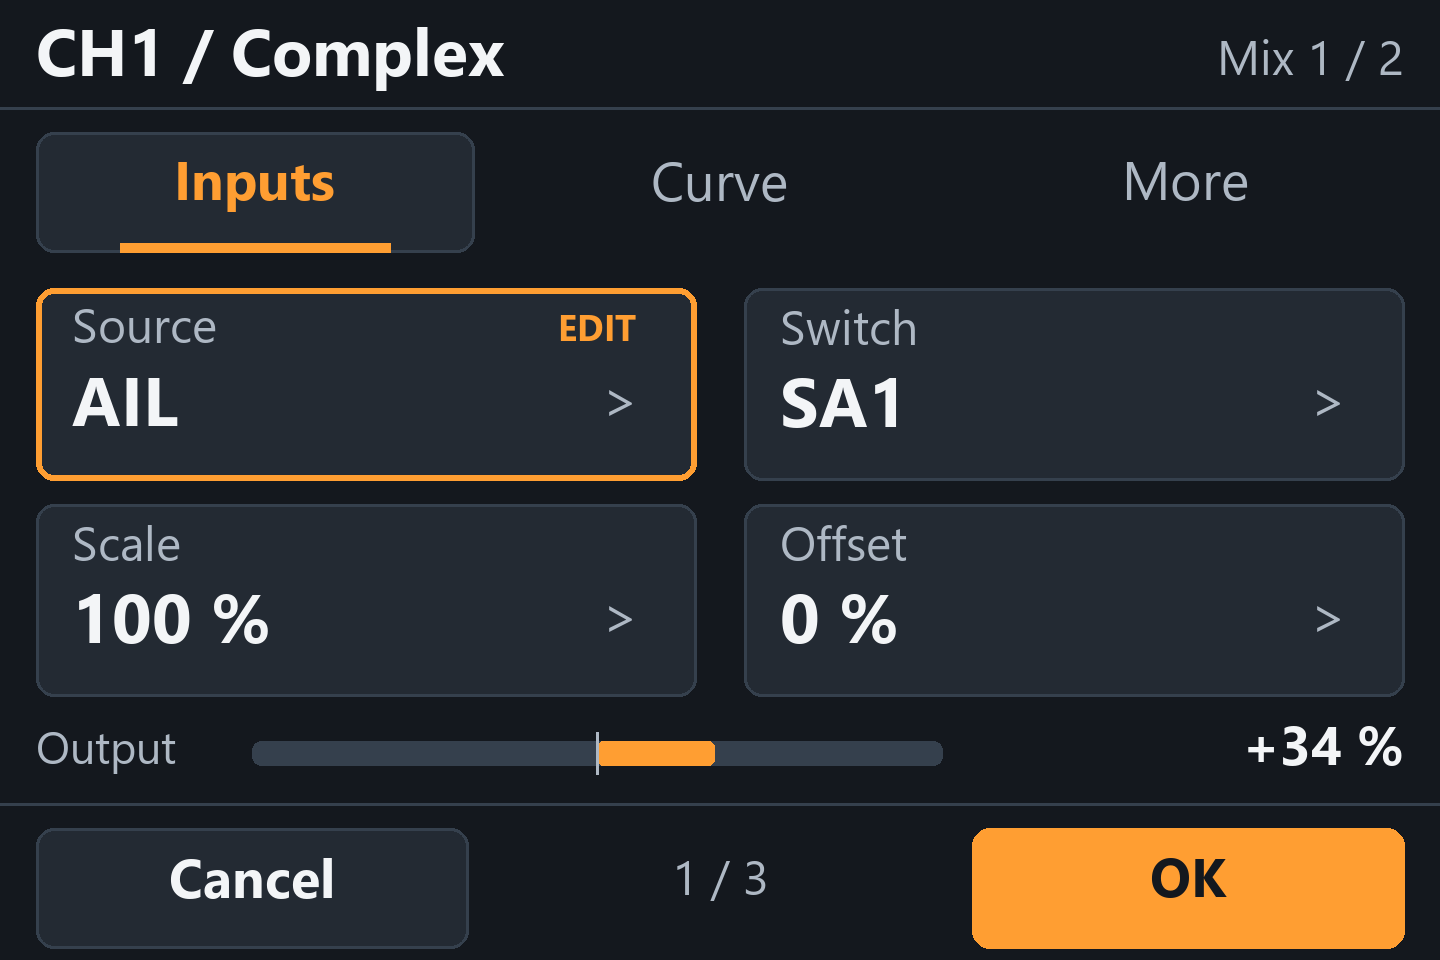
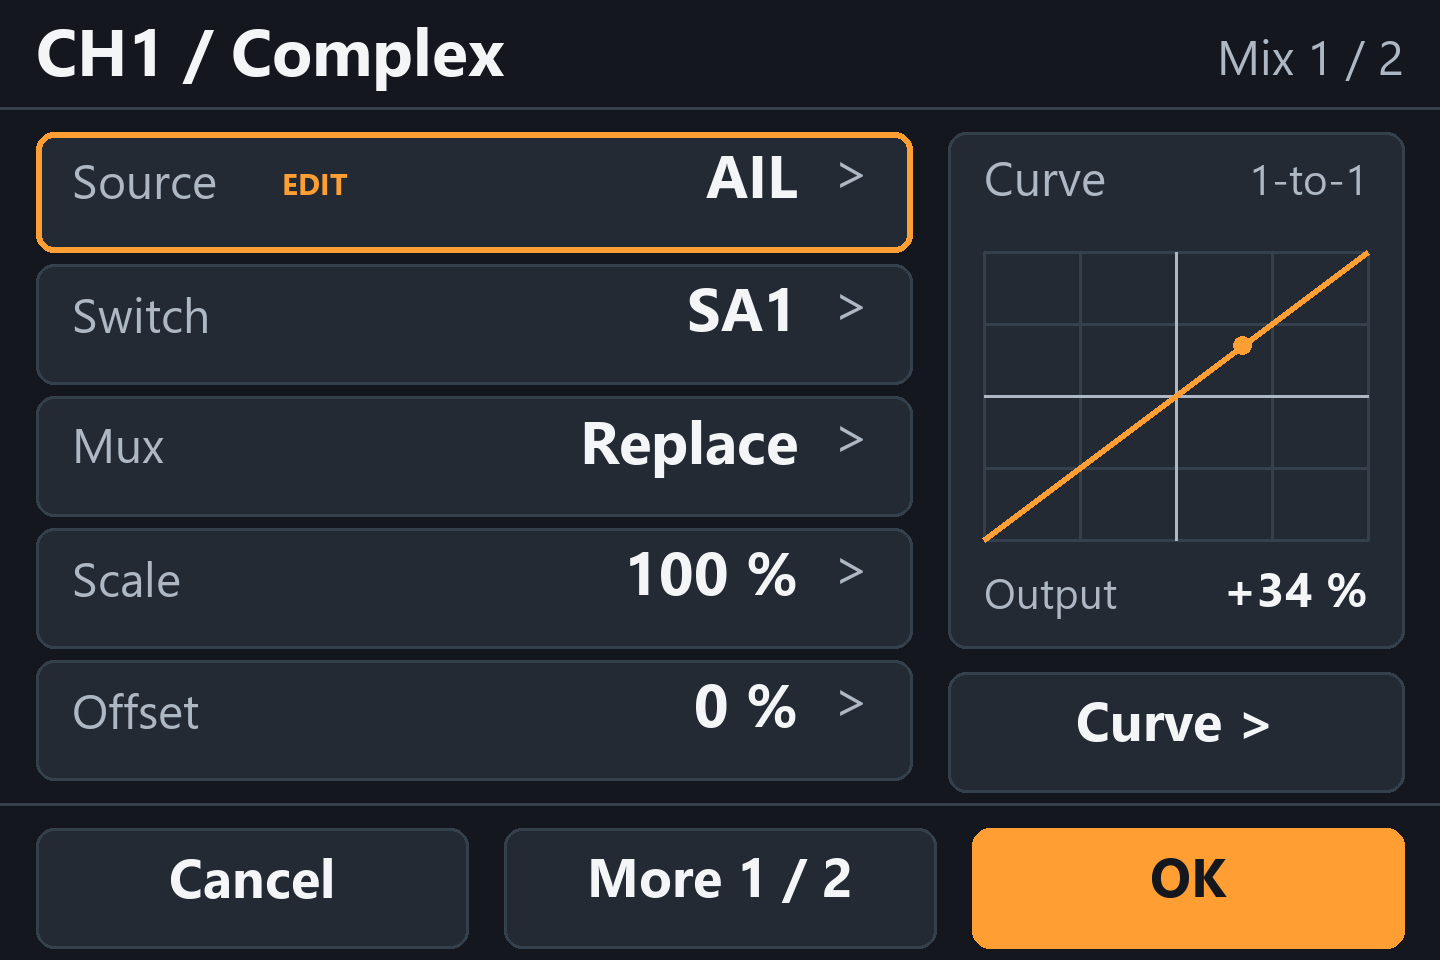
fix(tx15): decode each wheel detent and preserve faster navigation

diff --git a/utils/hardware/tests/test_app_adapter.py b/utils/hardware/tests/test_app_adapter.py
@@ -26,19 +26,31 @@ volatile u8 priority_ready;
 static unsigned sample_calls;
 int tx15_analog_sample(void) { sample_calls++; return 0; }
 #include "hardware/tx15/board/inputs.h"
-static unsigned up_releases, down_releases;
+static unsigned up_releases, down_releases, wheel_longpress;
+static unsigned enter_presses,enter_releases,enter_longpress,exit_presses,exit_releases,exit_longpress;
 void AUTODIMMER_Check(void) {}
 static unsigned count_action(u32 button,unsigned flags,void *data) {
  (void)data;
+ if(flags & BUTTON_PRESS) {
+  if(button==CHAN_ButtonMask(BUT_ENTER))enter_presses++;
+  if(button==CHAN_ButtonMask(BUT_EXIT))exit_presses++;
+ }
+ if(flags & BUTTON_LONGPRESS) {
+  if(button==CHAN_ButtonMask(BUT_UP) || button==CHAN_ButtonMask(BUT_DOWN))wheel_longpress++;
+  if(button==CHAN_ButtonMask(BUT_ENTER))enter_longpress++;
+  if(button==CHAN_ButtonMask(BUT_EXIT))exit_longpress++;
+ }
  if(flags & BUTTON_RELEASE) {
   if(button==CHAN_ButtonMask(BUT_UP)) up_releases++;
   if(button==CHAN_ButtonMask(BUT_DOWN)) down_releases++;
+  if(button==CHAN_ButtonMask(BUT_ENTER))enter_releases++;
+  if(button==CHAN_ButtonMask(BUT_EXIT))exit_releases++;
  }
  return 1;
 }
-static u32 test_ms; static int rotation;
+static u32 test_ms; static int rotation;static unsigned physical_keys;
 u32 CLOCK_getms(void) { return test_ms; }
-unsigned tx15_inputs_state(void) { return 0; }
+unsigned tx15_inputs_state(void) { return physical_keys; }
 struct tx15_input_event tx15_inputs_take(void) { struct tx15_input_event e={0,rotation}; rotation=0; return e; }
 u32 ScanButtons(void) { SCANBODY
 
@@ -76,8 +88,9 @@ int main(void) {
  test_ms=200; rotation=-1; assert(ScanButtons()==CHAN_ButtonMask(BUT_UP));
  test_ms=300; assert(ScanButtons()==0);
  buttonAction_t action={0};
- BUTTON_RegisterCallback(&action,CHAN_ButtonMask(BUT_UP)|CHAN_ButtonMask(BUT_DOWN),
-   BUTTON_PRESS|BUTTON_RELEASE,count_action,0);
+ BUTTON_RegisterCallback(&action,CHAN_ButtonMask(BUT_UP)|CHAN_ButtonMask(BUT_DOWN)
+   |CHAN_ButtonMask(BUT_ENTER)|CHAN_ButtonMask(BUT_EXIT),
+   BUTTON_PRESS|BUTTON_RELEASE|BUTTON_LONGPRESS,count_action,0);
  /* Feed ten detent events each way through the real Deviation debounce and
   * callback dispatcher. GUI navigation consumes the release, not the press. */
  for(test_ms=500;test_ms<6500;test_ms+=5) {
@@ -86,6 +99,26 @@ int main(void) {
   BUTTON_Handler();
  }
  assert(up_releases==10 && down_releases==10);
+ /* Fast 12.5-detent/s turns must deliver every release to real callbacks. */
+ for(test_ms=6500;test_ms<11500;test_ms+=5) {
+  if(test_ms>=6500 && test_ms<8500 && (test_ms-6500)%80==0) rotation=-1;
+  if(test_ms>=9000 && test_ms<11000 && (test_ms-9000)%80==0) rotation=1;
+  BUTTON_Handler();
+ }
+ assert(up_releases==35 && down_releases==35);
+ /* A GUI stall can coalesce detents: the adapter must preserve a burst. */
+ rotation=-12;
+ for(;test_ms<13000;test_ms+=5)BUTTON_Handler();
+ assert(up_releases==47 && down_releases==35);
+ assert(!wheel_longpress);
+ /* Already-debounced physical key state must retain short/long semantics. */
+ for(;test_ms<13800;test_ms+=5) {
+  physical_keys=test_ms<13600?TX15_ENTER:
+    test_ms>=13650 && test_ms<13750?TX15_EXIT:0;
+  BUTTON_Handler();
+ }
+ assert(enter_presses==1 && enter_releases==1 && enter_longpress==1);
+ assert(exit_presses==1 && exit_releases==1 && !exit_longpress);
  LCD_DrawStart(4,5,5,6,DRAW_NWSE);
  for(int i=0;i<5;i++) LCD_DrawPixel(1);
  assert(n==4 && px[0]==4 && py[0]==5 && px[3]==5 && py[3]==6);

diff --git a/docs/tx15/ui-concepts/render_ethos_style.py b/docs/tx15/ui-concepts/render_ethos_style.py
@@ -121,29 +121,30 @@ def mix_editor():
     s.text(12,9,'CH1 / Complex',22,bold=True)
     s.text(468,13,'Mix 1 / 2',16,MUTED,align='right')
     s.line([(0,36),(480,36)],EDGE,1)
-    for i,label in enumerate(('Inputs','Curve','More')):
-        x=12+i*155
-        s.rect(x,44,146,40,CARD if i==0 else BG,EDGE if i==0 else None,6)
-        s.text(x+73,54,label,18,ACCENT if i==0 else MUTED,bold=i==0,align='center')
-        if i==0:s.rect(x+28,81,90,3,ACCENT,radius=0)
-        s.hit(label,x,44,146,40)
-    fields=[('Source','AIL'),('Switch','SA1'),('Scale','100 %'),('Offset','0 %')]
+    fields=[('Source','AIL'),('Switch','SA1'),('Mux','Replace'),('Scale','100 %'),('Offset','0 %')]
     for i,(label,value) in enumerate(fields):
-        x,y=12+(i%2)*236,96+(i//2)*72
-        s.rect(x,y,220,64,CARD,ACCENT if i==0 else EDGE,6,2 if i==0 else 1)
-        s.text(x+12,y+7,label,16,MUTED)
-        s.text(x+12,y+30,value,23,bold=True)
-        s.text(x+201,y+34,'>',18,MUTED,align='right')
-        if i==0:s.text(x+200,y+9,'EDIT',12,ACCENT,bold=True,align='right')
-        s.hit(label,x,y,220,64)
-    s.text(12,244,'Output',15,MUTED)
-    s.rect(84,247,230,8,EDGE,radius=3)
-    s.rect(199,247,39,8,ACCENT,radius=2)
-    s.line([(199,244),(199,258)],MUTED,1)
-    s.text(468,242,'+34 %',18,FG,bold=True,align='right')
+        x,y=12,44+i*44
+        s.rect(x,y,292,40,CARD,ACCENT if i==0 else EDGE,6,2 if i==0 else 1)
+        s.text(x+12,y+11,label,16,MUTED)
+        s.text(x+254,y+8,value,20,bold=True,align='right')
+        s.text(x+278,y+10,'>',18,MUTED,align='right')
+        if i==0:s.text(x+82,y+14,'EDIT',10,ACCENT,bold=True)
+        s.hit(label,x,y,292,40)
+    s.rect(316,44,152,172,CARD,EDGE)
+    s.text(328,54,'Curve',16,MUTED)
+    s.text(456,55,'1-to-1',14,MUTED,align='right')
+    for x in (328,360,392,424,456):s.line([(x,84),(x,180)],EDGE,1)
+    for y in (84,108,132,156,180):s.line([(328,y),(456,y)],EDGE,1)
+    s.line([(392,84),(392,180)],MUTED,1)
+    s.line([(328,132),(456,132)],MUTED,1)
+    s.line([(328,180),(456,84)],ACCENT,2)
+    s.rect(411,112,6,6,ACCENT,radius=3)
+    s.text(328,193,'Output',14,MUTED)
+    s.text(456,191,'+34 %',16,FG,bold=True,align='right')
+    s.button(316,224,152,'Curve >')
     s.line([(0,268),(480,268)],EDGE,1)
     s.button(12,276,144,'Cancel')
-    s.text(240,287,'1 / 3',16,MUTED,align='center')
+    s.button(168,276,144,'More 1 / 2')
     s.button(324,276,144,'OK',True)
     s.save('ethos-mix-editor')
     return s

diff --git a/utils/hardware/tests/test_encoder_detents.py b/utils/hardware/tests/test_encoder_detents.py
@@ -1,0 +1,39 @@
+"""TX15 two-edge detents, including bounce and reversal; no board access."""
+import unittest
+import test_controls as controls
+
+class EncoderDetentTests(unittest.TestCase):
+    compile_run = controls.ControlsTests.compile_run
+
+    def test_one_detent_two_edges_and_noise(self):
+        self.compile_run(r'''
+#include <assert.h>
+#include "hardware/tx15/board/inputs.h"
+static int next(struct tx15_input_filter *f,unsigned phase){
+ return tx15_input_filter_step(f,0,phase).rotation;
+}
+int main(void){
+ struct tx15_input_filter f;
+ tx15_input_filter_init(&f,0,3);
+ /* Stable detents alternate 3 and 0; two Gray edges per physical click. */
+ assert(!next(&f,1));assert(next(&f,0)==1);
+ assert(!next(&f,2));assert(next(&f,3)==1);
+ assert(!next(&f,2));assert(next(&f,0)==-1);
+ assert(!next(&f,1));assert(next(&f,3)==-1);
+ /* Returning contact bounce cannot move an item. */
+ for(unsigned n=0;n<20;n++){assert(!next(&f,1));assert(!next(&f,3));}
+ assert(!next(&f,1));assert(next(&f,0)==1);
+ for(unsigned n=0;n<20;n++){assert(!next(&f,1));assert(!next(&f,0));}
+ /* Partial reversal cancels, then a real reverse detent emits once. */
+ assert(!next(&f,2));assert(!next(&f,0));
+ assert(!next(&f,1));assert(next(&f,3)==-1);
+ /* Skipped states must clear any partial movement, never guess direction. */
+ assert(!next(&f,1));assert(!next(&f,2));assert(!next(&f,3));
+ assert(!next(&f,0));assert(!next(&f,1));assert(!next(&f,0));
+ /* Holding ENTER blocks rotation without creating release-time backlog. */
+ tx15_input_filter_init(&f,TX15_ENTER,3);
+ unsigned phase[]={1,0,2,3};
+ for(unsigned i=0;i<40;i++)assert(!tx15_input_filter_step(&f,TX15_ENTER,phase[i%4]).rotation);
+ assert(!next(&f,1));assert(next(&f,0)==1);
+ return 0;
+}''', ['hardware/tx15/board/input_filter.c'])

diff --git a/src/target/tx/radiomaster/tx15/platform.c b/src/target/tx/radiomaster/tx15/platform.c
@@ -20,20 +20,25 @@ void CLOCK_ResetWatchdog(void) {
     if(tx15_runtime_poll(CLOCK_getms())) REPORT[12]++;
 }
 u32 ScanButtons(void) {
+    /* Native GPIO keys are already debounced. Keep synthetic press/release
+     * long enough for BUTTON_DEBOUNCE_MS, without the old 5-items/s limit. */
+    enum {WHEEL_PULSE_MS=20,WHEEL_QUEUE_MAX=32};
     static int queued;
     static u32 until, pulse;
     static unsigned phase;
     struct tx15_input_event e=tx15_inputs_take();
-    queued+=e.rotation; if(queued>8) queued=8; if(queued<-8) queued=-8;
+    queued+=e.rotation;
+    if(queued>WHEEL_QUEUE_MAX)queued=WHEEL_QUEUE_MAX;
+    if(queued<-WHEEL_QUEUE_MAX)queued=-WHEEL_QUEUE_MAX;
     u32 now=CLOCK_getms();
     if(phase && (s32)(now-until)>=0) {
-        if(phase==1) { pulse=0; phase=2; until=now+100; }
+        if(phase==1) { pulse=0; phase=2; until=now+WHEEL_PULSE_MS; }
         else phase=0;
     }
     if(!phase && queued) {
         /* CHAN_ButtonMask does not parenthesize its argument internally. */
         pulse=queued>0 ? CHAN_ButtonMask(BUT_DOWN) : CHAN_ButtonMask(BUT_UP);
-        queued+=(queued>0)?-1:1; phase=1; until=now+100;
+        queued+=(queued>0)?-1:1; phase=1; until=now+WHEEL_PULSE_MS;
     }
     unsigned raw=tx15_inputs_state();
     u32 trims=0;

diff --git a/hardware/tx15/board/input_filter.c b/hardware/tx15/board/input_filter.c
@@ -14,16 +14,17 @@ struct tx15_input_event tx15_input_filter_step(struct tx15_input_filter *f,unsig
             f->stable^=mask; if(f->stable&mask) e.pressed|=mask;
         }
     }
-    /* Four Gray-code edges per step. Reject skipped states instead of guessing
-     * motion. TX15 wiring is inverted: 3 -> 1 -> 0 -> 2 -> 3 is positive. */
+    /* TX15 has two detents per complete Gray cycle: two edges per click.
+     * Reject skipped states instead of guessing motion. Positive sequence:
+     * 3 -> 1 -> 0 (one click) -> 2 -> 3 (next click). */
     phase&=3;
     unsigned old=f->phase, diff=old^phase;
     if(diff==3) f->partial=0;
     else if(diff) {
         unsigned next=(old==3)?1:(old==1)?0:(old==0)?2:3;
         f->partial+=(phase==next)?1:-1;
-        if(f->partial>=4) { e.rotation=1; f->partial=0; }
-        if(f->partial<=-4) { e.rotation=-1; f->partial=0; }
+        if(f->partial>=2) { e.rotation=1; f->partial=0; }
+        if(f->partial<=-2) { e.rotation=-1; f->partial=0; }
     }
     f->phase=phase;
     if(keys&TX15_ENTER) { f->partial=0; e.rotation=0; }

diff --git a/utils/hardware/tests/test_inputs.py b/utils/hardware/tests/test_inputs.py
@@ -19,10 +19,10 @@ int main(void) {
  for(int i=0;i<10;i++) { assert(!tx15_input_filter_step(&f,1,3).pressed); tx15_input_filter_step(&f,0,3); }
  const unsigned phase[]={1,0,2,3}; int sum=0;
  for(int i=0;i<4;i++) sum+=tx15_input_filter_step(&f,0,phase[i]).rotation;
- assert(sum==1);
+ assert(sum==2); /* two physical detents in a full electrical cycle */
  const unsigned reverse[]={2,0,1,3}; sum=0;
  for(int i=0;i<4;i++) sum+=tx15_input_filter_step(&f,0,reverse[i]).rotation;
- assert(sum==-1);
+ assert(sum==-2);
  assert(!tx15_input_filter_step(&f,0,0).rotation);
  assert(!tx15_input_filter_step(&f,0,3).rotation);
  /* A key already held at startup must be released before generating a press. */

diff --git a/src/buttons.c b/src/buttons.c
@@ -18,7 +18,9 @@
 
 static buttonAction_t *buttonHEAD = NULL;
 static buttonAction_t *buttonPressed = NULL;
-#define DEBOUNCE_WAIT_MS 80
+#ifndef BUTTON_DEBOUNCE_MS
+#define BUTTON_DEBOUNCE_MS 80
+#endif
 
 void exec_callbacks(u32, enum ButtonFlags);
 
@@ -108,7 +110,7 @@ void BUTTON_Handler()
     u32 buttons_released=(~buttons) &   last_buttons;
 
     if (buttons != last_buttons)
-        last_button_time = ms + DEBOUNCE_WAIT_MS;
+        last_button_time = ms + BUTTON_DEBOUNCE_MS;
 
     if(buttons_pressed && !longpress_release) {
         //printf("pressed: %08d\n", buttons_pressed);

diff --git a/src/target/tx/radiomaster/tx15/app.c b/src/target/tx/radiomaster/tx15/app.c
@@ -37,7 +37,7 @@ static void tx15_app_frame_service(void){(void)tx15_runtime_poll(CLOCK_getms());
 #include "../../../../../hardware/tx15/board/media_clock.h"
 #endif
 #ifdef TX15_MENU_TOUCH
-const char DeviationVersion[33]="New Deviation TX15 UI02";
+const char DeviationVersion[33]="New Deviation TX15 UI02-R1";
 #elif defined(TX15_TOUCH_DIAGNOSTIC)
 const char DeviationVersion[33]="New Deviation TX15 UI01";
 #elif defined(TX15_FRAME_SWAP)

diff --git a/src/target/tx/radiomaster/tx15/target_defs.h b/src/target/tx/radiomaster/tx15/target_defs.h
@@ -10,6 +10,8 @@
 #define SUPPORT_MULTI_LANGUAGE 0
 #define SUPPORT_XN297DUMP 0
 #define TX15_RAM_APPLICATION 1
+/* Physical native keys already pass the 20ms board input filter. */
+#define BUTTON_DEBOUNCE_MS 10
 
 #define TXID 0xF0  /* RAM application identity; not a DFU identifier. */
 #define LCD_WIDTH 480

diff --git a/docs/superpowers/plans/2026-10-28-tx15-wheel-and-mix-density.md b/docs/superpowers/plans/2026-10-28-tx15-wheel-and-mix-density.md
@@ -1,0 +1,38 @@
+# TX15 wheel detents and Mix density
+
+User: keep the proposed main menu; Mix needs more information; wheel should
+move one item per detent. Work in existing dev/tx15-hardware-bringup checkout.
+
+1. Reproduce slow detents in the pure decoder and fast turns through actual
+   ScanButtons/BUTTON_Handler. Check bounce, reverse, invalid Gray transitions,
+   physical ENTER/EXIT, and no long-press from synthetic wheel events.
+2. Use two valid Gray edges per TX15 detent, preserving direction and partial
+   cancellation. Native physical inputs already debounce 20ms. Reduce native
+   second debounce to 10ms and wheel pulses to 20ms on/20ms off; leave other
+   transmitter targets unchanged. Preserve up to 32 queued detents.
+3. Revise Mix design only: five 40px parameter rows plus compact curve preview,
+   visible switch/mux/source/scale/offset and explicit remaining fields. Keep
+   40px footer and all existing Deviation fields/save semantics. Main menu
+   preview unchanged. Native card implementation is a later firmware stage.
+4. Run focused/full relevant host checks, ARM build, one independent review;
+   package USB UI02-R1 app, preserve BL/settings ABI, record evidence and push.
+
+Evidence: hardware/tx15/board/input_filter.c currently requires four edges;
+docs/tx15/bench-2026-10-01.md records two detents per menu item. platform.c
+currently synthesizes 100ms press+100ms release; src/buttons.c debounces 80ms.
+These are code/previous hardware observations, not a fresh device capture.
+
+Live acceptance pending USB update: ten slow detents each way -> ten items;
+moderate speed, immediate reversal, edits, ENTER/EXIT and ELRS Lua navigation.
+No device access/flash in this development session.
+
+Execution ledger:
+- Initial two-edge detent regression failed; real fast-turn BUTTON_Handler
+  regression also failed before changing production code. Both now pass.
+- Mix mock revised and visually inspected; 18 nonoverlapping 40px-minimum hit
+  targets checked across both screens. Main-menu mock unchanged.
+- Independent review found no blocking bug, noted missing physical-key and
+  longpress host coverage. Added ENTER long-hold/EXIT short-hold and wheel
+  no-longpress checks through the actual callback dispatcher; passed.
+- Final 51 relevant host tests and 156-object ARM build passed. UI02-R1 marker,
+  ND15/NDU CRCs, ABI1, and settings boundary verified. Hardware acceptance pending.

diff --git a/docs/tx15/wheel-ui02r1-2026-10-28.md b/docs/tx15/wheel-ui02r1-2026-10-28.md
@@ -1,0 +1,36 @@
+# TX15 UI02-R1：滚轮一格一步修正版
+
+用户反馈：双向需 2–3 格才移动一项。旧日志 bench-2026-10-01.md 已记录
+每两格一项，但当时暂缓；旧 decoder 每四个 Gray 相位边沿发一次，native
+ScanButtons 还使用 100ms 按下 + 100ms 松开，最多约每秒五步，快转会积压。
+
+本版每两个有效 Gray 边沿发一步，保持原方向。相邻触点往返抵消、非法
+跨相位清零、按住 ENTER 时屏蔽旋转均保留。按键转换改为 20ms 按下与
+20ms 松开，待处理队列从 8 增至 32。只有 TX15 采用第二级 10ms 消抖；
+其物理按键已通过板级 20ms 滤波，其他 target 仍默认 80ms。
+
+软件验证：新增两边沿一格、回拨、触点抖动、非法跳变和按住 ENTER 的
+回归测试。实际 ScanButtons 与 BUTTON_Handler 回调检查包括原慢速双向
+各 10 步、新增每秒 12.5 步双向各 25 步及积压 12 步，均按数量释放。
+51 项相关检查通过，156 个 ARM 对象构建链接通过。没有读取或刷写设备。
+另验证真实按键回调中的 ENTER 长按、EXIT 短按，以及滚轮不触发长按。
+715128 字节 NDU 的 SHA256：
[1 lines of base64/hex data omitted]
+证据：`evidence/2026-10-28/wheel-ui02r1-candidate.json`。
+
+## USB 验收
+
+包：`local/tx15-usb-release/tx15-wheel-1step-ui02r1-20261028.ndu`。
+按 EXIT 开机进入 USB UPDATE，现有工具选择该包更新。重启后 About 为
+**UI02-R1**。保留内部 BL、模型和校准；回退包为
+`tx15-menu-touch-ui02-20261027.ndu`。
+
+1. 接收机先断电；菜单中顺时针慢转 10 格、再反向 10 格，应各走 10 项。
+   列表边界不要继续计数；也可在足够范围的数值字段上检查每格变化。
+2. 中等速度连转、停下、立即反向；检查不漏步、不持续自行移动。
+3. 检查 ENTER 短按、长按、EXIT、四组微调及 ELRS Lua 的滚轮操作。
+4. 本版仍为 UI02 列表菜单。卡片主菜单和新版 Mix 是单独待实现的界面工作；
+   本次只更新 Mix 效果稿为五行参数与曲线同屏，不能把效果稿当实机截图。
+
+实际一格一步及手感仍需用户验收。两边沿对应一格的依据是前期实测与
+现有解码代码；此次未采集新硬件相位波形，软件通过不替代实机检查。

diff --git a/docs/superpowers/specs/2026-10-27-tx15-card-ui-design.md b/docs/superpowers/specs/2026-10-27-tx15-card-ui-design.md
@@ -3,6 +3,8 @@
 2026-10-27，用户提出接近 ETHOS 的触摸友好样式，并同意先出主菜单和 Mix
 两页效果稿。默认配色由开发方选择：深灰底、橙色强调。本稿是视觉提案，
 不是已刷入的界面，也不是电脑模拟器；UI02 菜单触摸固件保持不变。
+2026-10-28：用户认可主菜单，指出 Mix 稿信息过少。修订为紧凑列表与曲线
+同屏；滚轮修复另见 2026-10-28-tx15-wheel-and-mix-density.md。
 
 ## 方向
 
@@ -16,14 +18,16 @@
   枚举顺序。Transmitter menu 的卡片简称 Transmitter，进入页标题仍使用
   完整名称。Storage test 位于第二页，不删功能。焦点橙色描边，点击松手
   进入，滑动翻页；滚轮逐卡移动，ENTER/EXIT 行为保留。
-- Mix：复杂混控第一条、Inputs 标签页为示例。Source、Switch、Scale、Offset
-  每个 220×64；标签 16 像素、值 23 像素。Source 示例处于编辑状态，橙框
+- Mix：复杂混控第一条为例。左侧五行 Source、Switch、Mux、Scale、Offset，
+  每行 292×40，行间 4 像素；标签 16 像素、值 20 像素。右侧同时展示曲线
+  预览和输出值，底部独立 152×40 的 Curve 入口。Source 示例处于编辑状态，橙框
   配合 EDIT 字样；普通焦点与编辑态需在最终控件中区分。参数入口点整张
-  卡片，不要求点中细箭头。下方输出条只读，底部 Cancel/OK 各 144×40。
-- Inputs / Curve / More 是同一混控条目的字段分页，不是三种混控算法。
+  参数行，不要求点中细箭头。曲线与输出只读，点 Curve 进入编辑；底部
+  Cancel / More / OK 各 144×40。
+- More 是同一混控条目的补充字段分页，不是混控算法。
   最终字段分组需覆盖 Switch、Mux、Src、Curve、Scale、Offset、Trim、
   模板及混控条目选择，保持旧回调和保存流程；不能省略复杂混控功能。
-  示例右上 Mix 1/2 为条目序号，底部 1/3 为字段页序号。
+  示例右上 Mix 1/2 为条目序号，底部 More 1/2 为字段页序号。
 
 ## 色彩与资源
 
